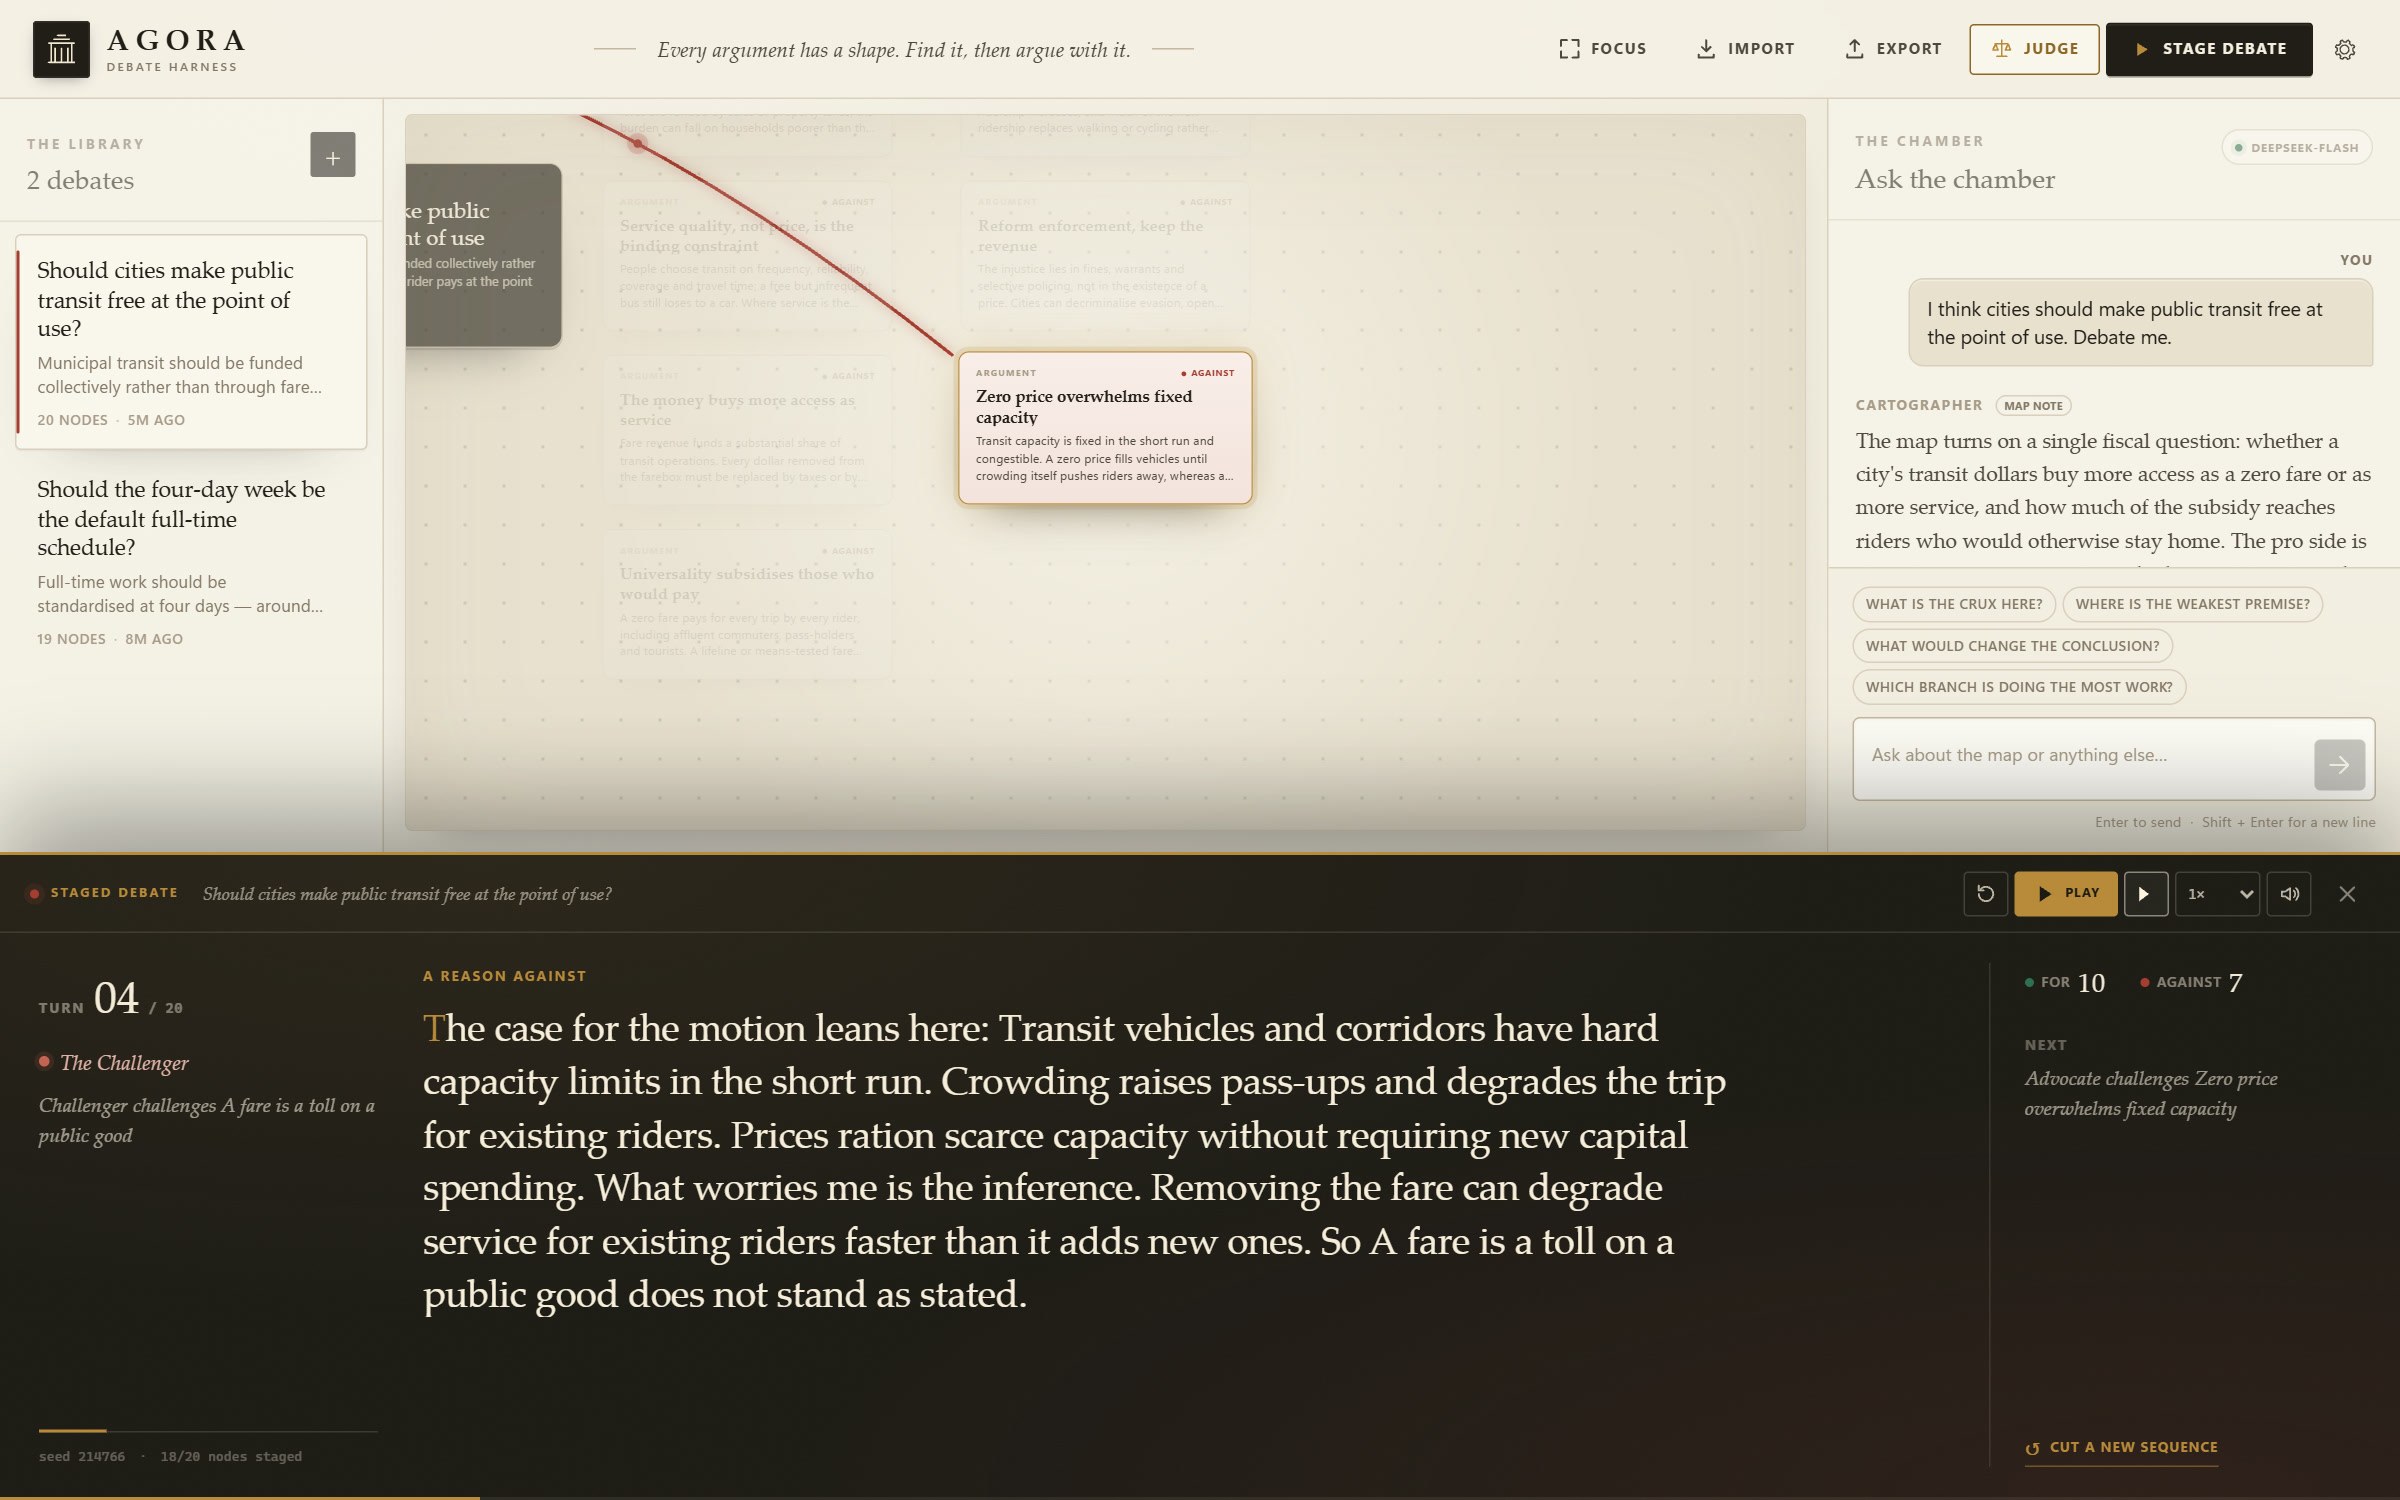
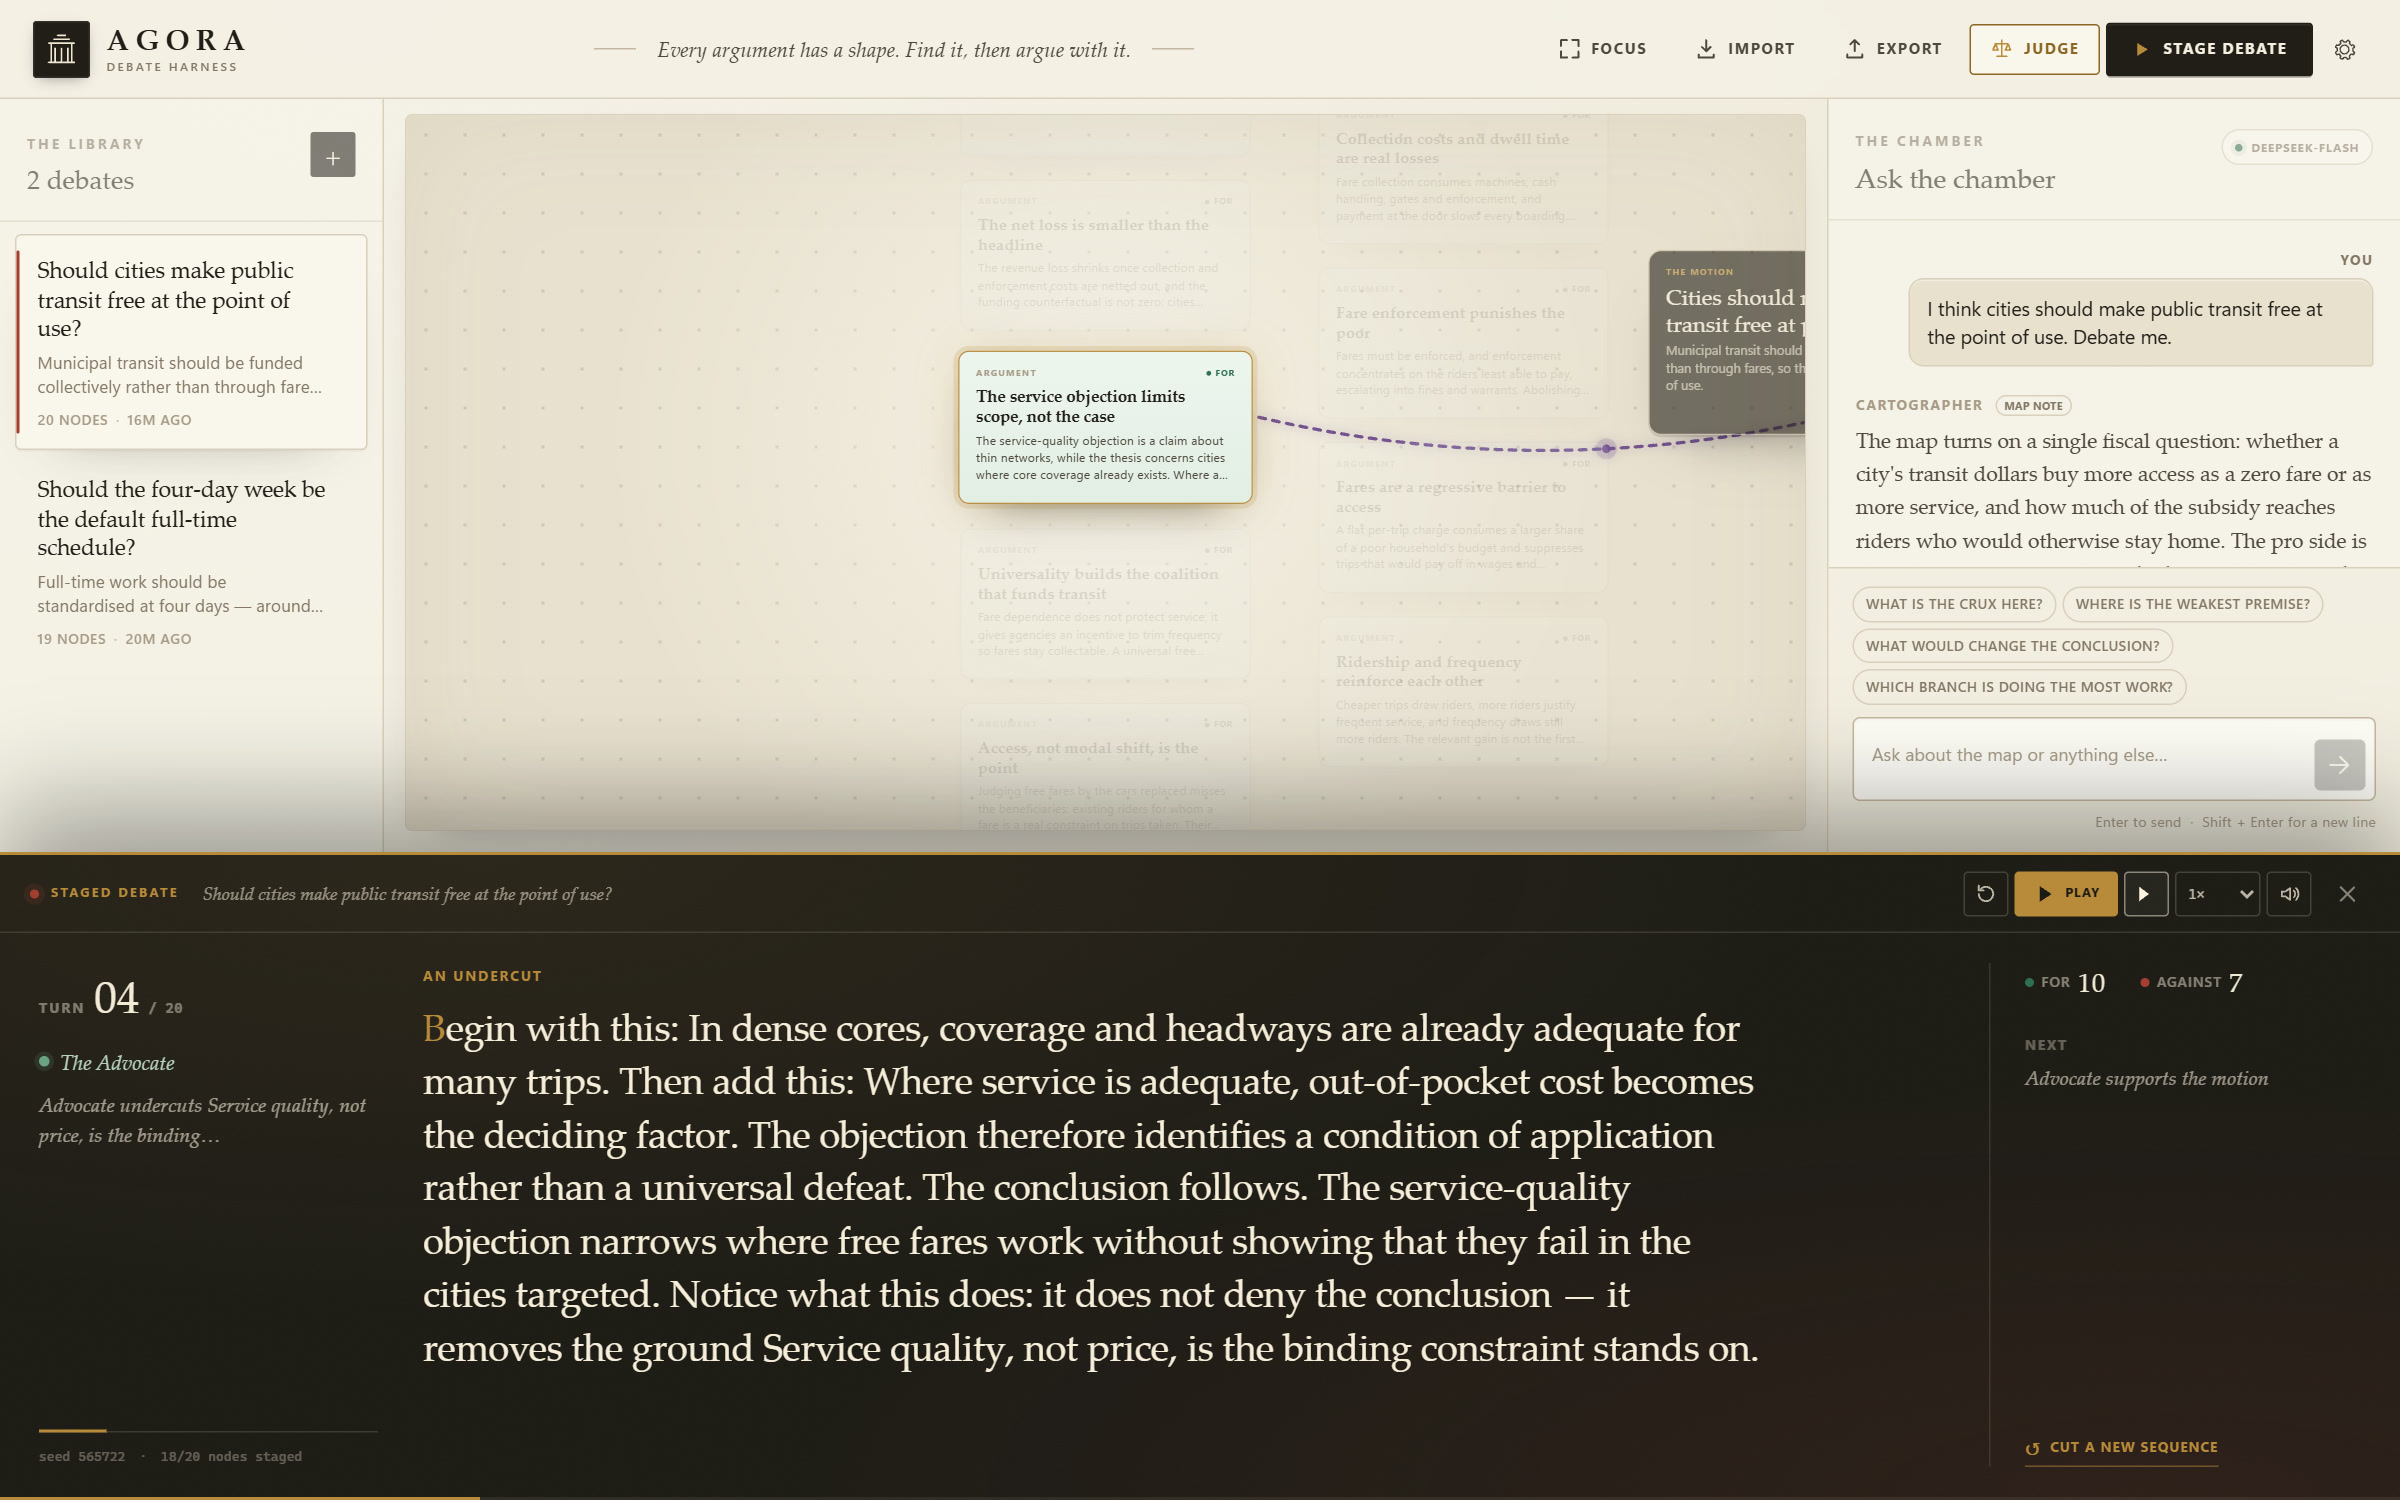
docs: show dark and light themes

diff --git a/README.md b/README.md
@@ -12,17 +12,38 @@ Agora is an early public beta. The source is available under the **MIT License**
 
 ## Screenshots
 
-![The Agora workspace showing the debate library, a case-view argument map, and the chamber](docs/screenshots/workspace-case.jpg)
+Agora ships with two themes. The gallery leads with **Night Reading Room**; the light **Editorial paper** set is folded out below it.
+
+### Night Reading Room
+
+![The Agora workspace in dark mode, showing the debate library, a case-view argument map, and the chamber](docs/screenshots/workspace-case-dark.jpg)
 
 *The workspace: the library, the argument map, and the chamber. The map groups the case by side and keeps the motion at the centre.*
 
-![A thread-view argument map with replies attached to the claims they answer](docs/screenshots/map-thread.jpg)
+![A staged debate in dark mode with the argument map behind the speaker and the spoken turn below](docs/screenshots/stage-debate-dark.jpg)
+
+*The stage: the argument map follows the turn while the panel presents the case, the speaker, the score, and the next move.*
+
+![A thread-view argument map in dark mode with replies attached to the claims they answer](docs/screenshots/map-thread-dark.jpg)
 
 *Thread view: replies attach to the argument they answer, so a line of reasoning can be followed outward from the motion.*
 
-![A staged debate with the argument map behind the speaker and the spoken turn below](docs/screenshots/stage-debate.jpg)
+<details>
+<summary><strong>Editorial paper — light mode</strong></summary>
 
-*The stage: the argument map follows the turn while the panel presents the case, the speaker, the score, and the next move.*
+![The Agora workspace in light mode, showing the debate library, a case-view argument map, and the chamber](docs/screenshots/workspace-case.jpg)
+
+*The workspace in Editorial paper.*
+
+![A staged debate in light mode with the argument map behind the speaker and the spoken turn below](docs/screenshots/stage-debate.jpg)
+
+*The stage in Editorial paper.*
+
+![A thread-view argument map in light mode with replies attached to the claims they answer](docs/screenshots/map-thread.jpg)
+
+*Thread view in Editorial paper.*
+
+</details>
 
 ## Install on Windows
 
